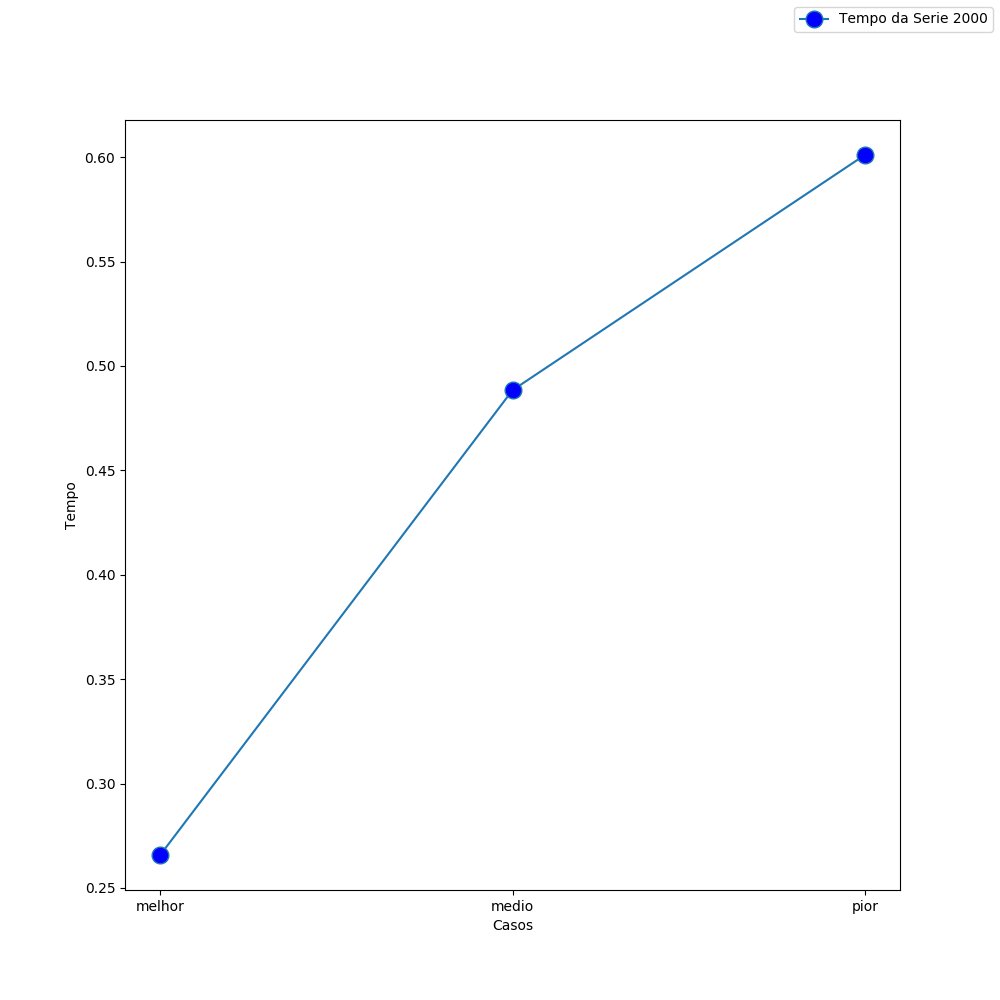
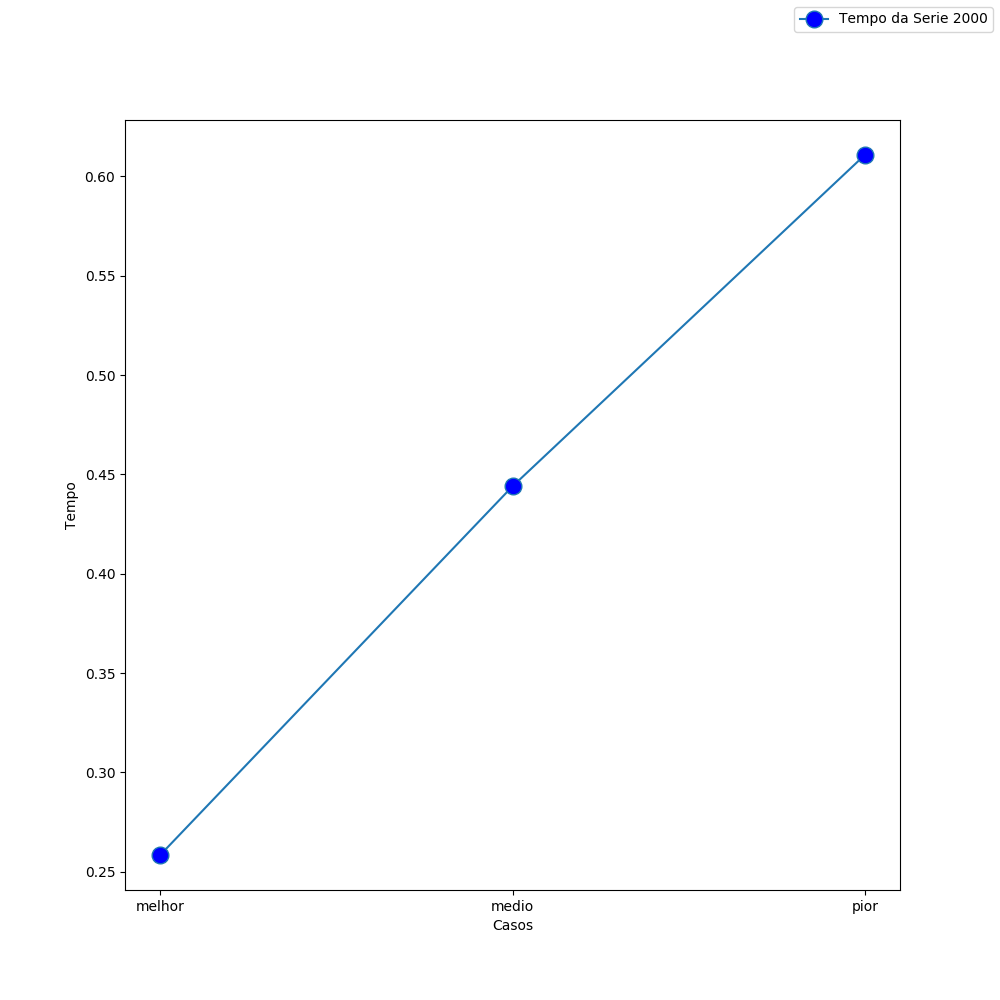
Init

diff --git a/selection_part2/main.py b/selection_part2/main.py
@@ -5,17 +5,13 @@ import matplotlib as mpl
 mpl.use('Agg')
 import matplotlib.pyplot as plt
 
-def selectionSort(serie): # o argumento serie é um tupla
-	for i in range(0, len(serie)-1):
-		menor = i
-		for j in range(i+1, len(serie)):
-			if(serie[j] < serie[i]):
+def selectionSort(serie): # arg.: lista com as series a seres ordenadas
+	for i in range(len(serie)-1, 0, -1):
+		menor = 0
+		for j in range(1, i+1):
+			if(serie[j] > serie[menor]):
 				menor = j
-		if serie[i] != serie[menor]:
-			aux = serie[i]
-			aux1 = serie[menor]
-			serie[i] = aux1
-			serie[menor] = aux
+		serie[i], serie[menor] = serie[menor], serie[i] 
 	return serie
 
 def geraLista(tam): # lista de permutações com filtro de tupla
@@ -35,15 +31,16 @@ def tempListas(serie): # executa selection em cada caso
 		tempo.append(timeit.timeit("selectionSort({})".format(serie),setup="from __main__ import selectionSort", number=1))
 	return tempo
 
-def retornaPiorCaso(serie): # argumento com uma serie de tempo embaralhadas
-	maximo = max(serie) # tempo maximo da serie de tempos
-	return serie.index(maximo)
+def retornaPiorCaso(s): # argumento com uma serie de tempo embaralhadas
+	maximo = max(s) # tempo maximo da serie de tempos
+	print (maximo)
+	return s.index(maximo)
 	
 
 def geraGraf(x,y,xl,yl,lab, filew):
 	fig = plt.figure(figsize=(10, 10))
 	ax = fig.add_subplot(111)
-	ax.plot(x, y, label= lab, marker='o', markerfacecolor='blue', markersize=12)
+	ax.plot(x, y, label= lab, marker='.', markerfacecolor='blue', markersize=12)
 	ax.legend(bbox_to_anchor=(1, 1),bbox_transform=plt.gcf().transFigure)
 	plt.ylabel(yl)
 	plt.xlabel(xl)
@@ -53,13 +50,16 @@ def geraGraf(x,y,xl,yl,lab, filew):
 ########	INICIO DO PROGRAMA	###############
 #######################################################
 
-series = geraLista(6) # gera uma lista de series de tamanho 6 com todas as permutaçõess 
+series = geraLista(4) # gera uma lista de series de tamanho 6 com todas as permutaçõess
 tempos = tempListas(series) # crio uma lista com tempo de ordenamento de cada permutação
-print ("O pior caso é a sequencia: "+str(series[retornaPiorCaso(series)]))
+print (tempos)
+print ("O pior caso é a sequencia: "+str(series[retornaPiorCaso(tempos)]))
 sortTempos = selectionSort(tempos) # ordeno a lista com tempos crescentes
+print (sortTempos)
 temps = []
 temps.append(sortTempos[0]) # adiciono o menor tempo
 temps.append(sortTempos[int(len(sortTempos)/2)]) # adiciono o tempo medio
 temps.append(sortTempos[len(sortTempos)-1]) # adiciono o maior tempo
+print (temps)
 casos = ["melhor", "medio", "pior"]
 geraGraf(casos, temps, "Casos", "Tempo", "função ordenação 6!", "tempos.png")

diff --git a/insertion/main.py b/insertion/main.py
@@ -19,17 +19,18 @@ def geraLista(tam, caso): #1- melhor /2- medio /3- pior
 			lista.append(i)
 	return lista
 
-def selectionSort(serie): # arg.: lista com as series a seres ordenadas
-	print(serie)
-	for i in range(len(serie)-1, 0, -1):
-		menor = 0
-		for j in range(1, i+1):
-			if(serie[j] > serie[menor]):
-				menor = j
-		serie[i], serie[menor] = serie[menor], serie[i]
-	print(serie)
-	return serie
+def insertionSort(serie):
+	for i in range(1,len(serie)):
+		valor = serie[i]
+		indice = i
 
+		while indice>0 and serie[indice-1]>valor:
+			serie[indice]=serie[indice-1]
+			indice = indice-1
+
+		serie[indice]=valor
+
+	return serie
 
 def geraGraf(x,y,xl,yl,lab, filew):
 	fig = plt.figure(figsize=(10, 10))
@@ -39,16 +40,15 @@ def geraGraf(x,y,xl,yl,lab, filew):
 	plt.ylabel(yl)
 	plt.xlabel(xl)
 	fig.savefig(filew)
-series = [10, 20, 30]
 
-#series = [1000, 2000, 3000, 4000, 6000]
+series = [10000, 20000, 30000, 40000, 60000]
 casos = ["melhor","medio","pior"]
 tempos = []
 for tam in series:
 	tempos = []
 	for c in casos:
 		lista = geraLista(tam, c)
-		tempos.append(timeit.timeit("selectionSort({})".format(lista),setup="from __main__ import selectionSort", number=1))
+		tempos.append(timeit.timeit("insertionSort({})".format(lista),setup="from __main__ import insertionSort", number=1))
 	print(tempos)
 	geraGraf(casos, tempos, "Casos", "Tempo", "Tempo da Serie "+str(tam), "casos de "+str(tam)+".png")
 

diff --git a/bubble_v2/main.py b/bubble_v2/main.py
@@ -11,16 +11,20 @@ def geraLista(tam, caso): #1- melhor /2- medio /3- pior
 		for i in range(0, tam):
 			lista.append(i)
 	elif (caso == "medio"):
-		for i in range(0, tam):
-			n = randint(1, 1 * tam)
-			lista.append(n)
+		while len(lista) < tam:
+			n = randint(1,1*tam)
+			if n not in lista: lista.append(n)
+
 	elif (caso == "pior"):
 		for i in range(tam-1, -1, -1):
 			lista.append(i)
 	else:
 		print ("Caso errado")
 		return False
+	
 	return lista
+
+
 
 def bubbleSort(serie): # sem numero de swaps
     for num in range(len(serie) - 1, -1, -1):
